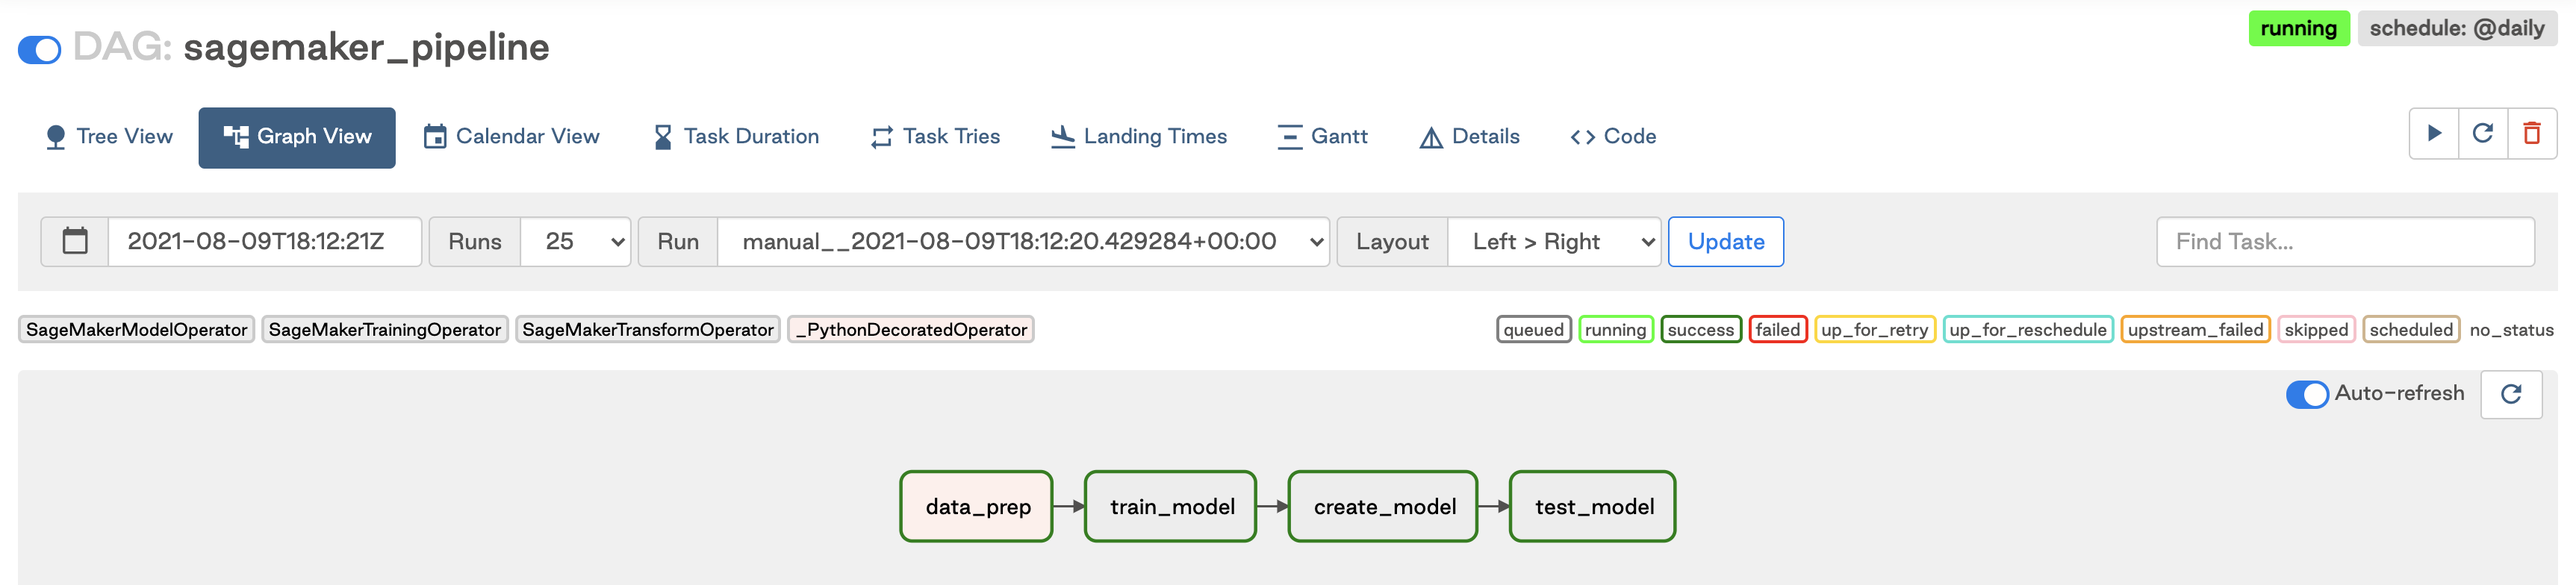
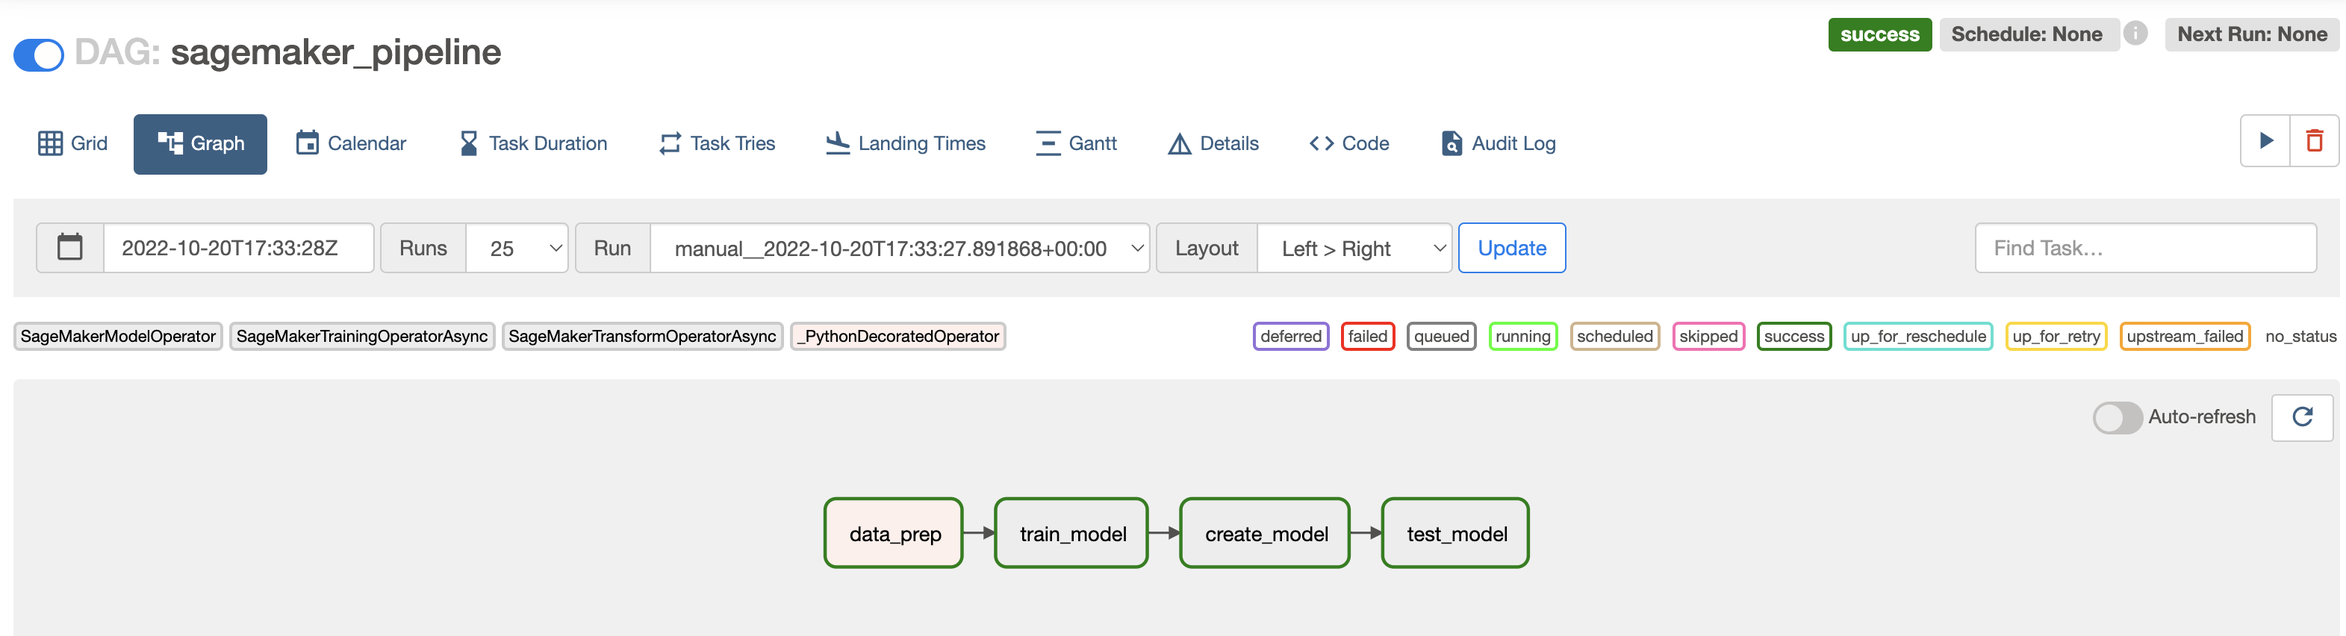
Update SageMaker tutorial with new async operators

diff --git a/learn/airflow-sagemaker.md b/learn/airflow-sagemaker.md
@@ -64,9 +64,10 @@ Now that you have your AWS resources configured, you can move on to Airflow setu
 
     ```text
     apache-airflow-providers-amazon>=5.1.0
+    astronomer-providers[amazon]>=1.11.0
     ```
 
-    This installs the AWS provider package that contains all of the relevant SageMaker modules. If you use an older version of the AWS provider, some of the DAG configuration in later steps may need to be modified.
+    This installs the AWS provider package which contains relevant S3 and SageMaker modules. It also installs the Astronomer providers package, which contains [deferrable](deferrable-operators.md) versions of some SageMaker modules that can help you save costs for long-running jobs. If you use an older version of the AWS provider, some of the DAG configuration in later steps may need to be modified. Deferrable SageMaker operators are not available in older versions of the Astronomer providers package.
 
 3. Add the following environment variables to the `.env` file of your project:
 
@@ -128,10 +129,11 @@ In your Astro project `dags/` folder, create a new file called `sagemaker-pipeli
 ```python
 from airflow import DAG
 from airflow.decorators import task
-from airflow.providers.amazon.aws.operators.sagemaker import (
-    SageMakerModelOperator,
-    SageMakerTrainingOperator,
-    SageMakerTransformOperator,
+from airflow.providers.amazon.aws.operators.sagemaker import SageMakerModelOperator
+from airflow.providers.amazon.aws.hooks.s3 import S3Hook
+from astronomer.providers.amazon.aws.operators.sagemaker import (
+    SageMakerTrainingOperatorAsync, 
+    SageMakerTransformOperatorAsync
 )
 from airflow.providers.amazon.aws.hooks.s3 import S3Hook
 
@@ -144,9 +146,9 @@ import numpy as np
 """
 This DAG shows an example implementation of machine learning model orchestration using Airflow
 and AWS SageMaker. Using the AWS provider's SageMaker operators, Airflow orchestrates getting data
-from an API endpoint and pre-processing it (task-decorated function), training the model (SageMakerTrainingOperator),
+from an API endpoint and pre-processing it (task-decorated function), training the model (SageMakerTrainingOperatorAsync),
 creating the model with the training results (SageMakerModelOperator), and testing the model using
-a batch transform job (SageMakerTransformOperator).
+a batch transform job (SageMakerTransformOperatorAsync).
 
 The example use case shown here is using a built-in SageMaker K-nearest neighbors algorithm to make
 predictions on the Iris dataset. To use the DAG, add Airflow variables for `s3_bucket` (S3 Bucket used with SageMaker 
@@ -203,7 +205,7 @@ with DAG('sagemaker_pipeline',
 
     data_prep = data_prep(data_url, "{{ var.value.get('s3_bucket') }}", input_s3_key)
 
-    train_model = SageMakerTrainingOperator(
+    train_model = SageMakerTrainingOperatorAsync(
         task_id='train_model',
         config={
             "AlgorithmSpecification": {
@@ -258,7 +260,7 @@ with DAG('sagemaker_pipeline',
         }
     )
 
-    test_model = SageMakerTransformOperator(
+    test_model = SageMakerTransformOperatorAsync(
         task_id='test_model',
         config={
             "TransformJobName": "test-knn-{0}".format(date),
@@ -310,7 +312,7 @@ This example DAG acquires and pre-processes data, trains a model, creates a mode
 
 1. Using a `PythonOperator`, grab the data from the API, complete some pre-processing so the data is compliant with KNN requirements, split into train and test sets, and save them to S3 using the `S3Hook`.
 
-2. Train the KNN algorithm on the data using the `SageMakerTrainingOperator`. The configuration for this operator requires:
+2. Train the KNN algorithm on the data using the `SageMakerTrainingOperatorAsync`. We use a deferrable version of this operator to save resources on potentially long-running training jobs. The configuration for this operator requires:
 
     - Information about the algorithm being used.
     - Any required hyper parameters.
@@ -330,7 +332,7 @@ This example DAG acquires and pre-processes data, trains a model, creates a mode
 
     For more information on creating a model, check out the API documentation [here](https://docs.aws.amazon.com/sagemaker/latest/APIReference/API_CreateModel.html).
 
-4. Evaluate the model on the test data created in task 1 using the `SageMakerTransformOperator`. This step runs a batch transform to get inferences on the test data from the model created in task 3. The configuration for this operator requires:
+4. Evaluate the model on the test data created in task 1 using the `SageMakerTransformOperatorAsync`. This step runs a batch transform to get inferences on the test data from the model created in task 3. We use a deferrable version of this operator to save resources on potentially long-running transform jobs. The configuration for this operator requires:
 
     - Information about the input data source.
     - The output results path.
